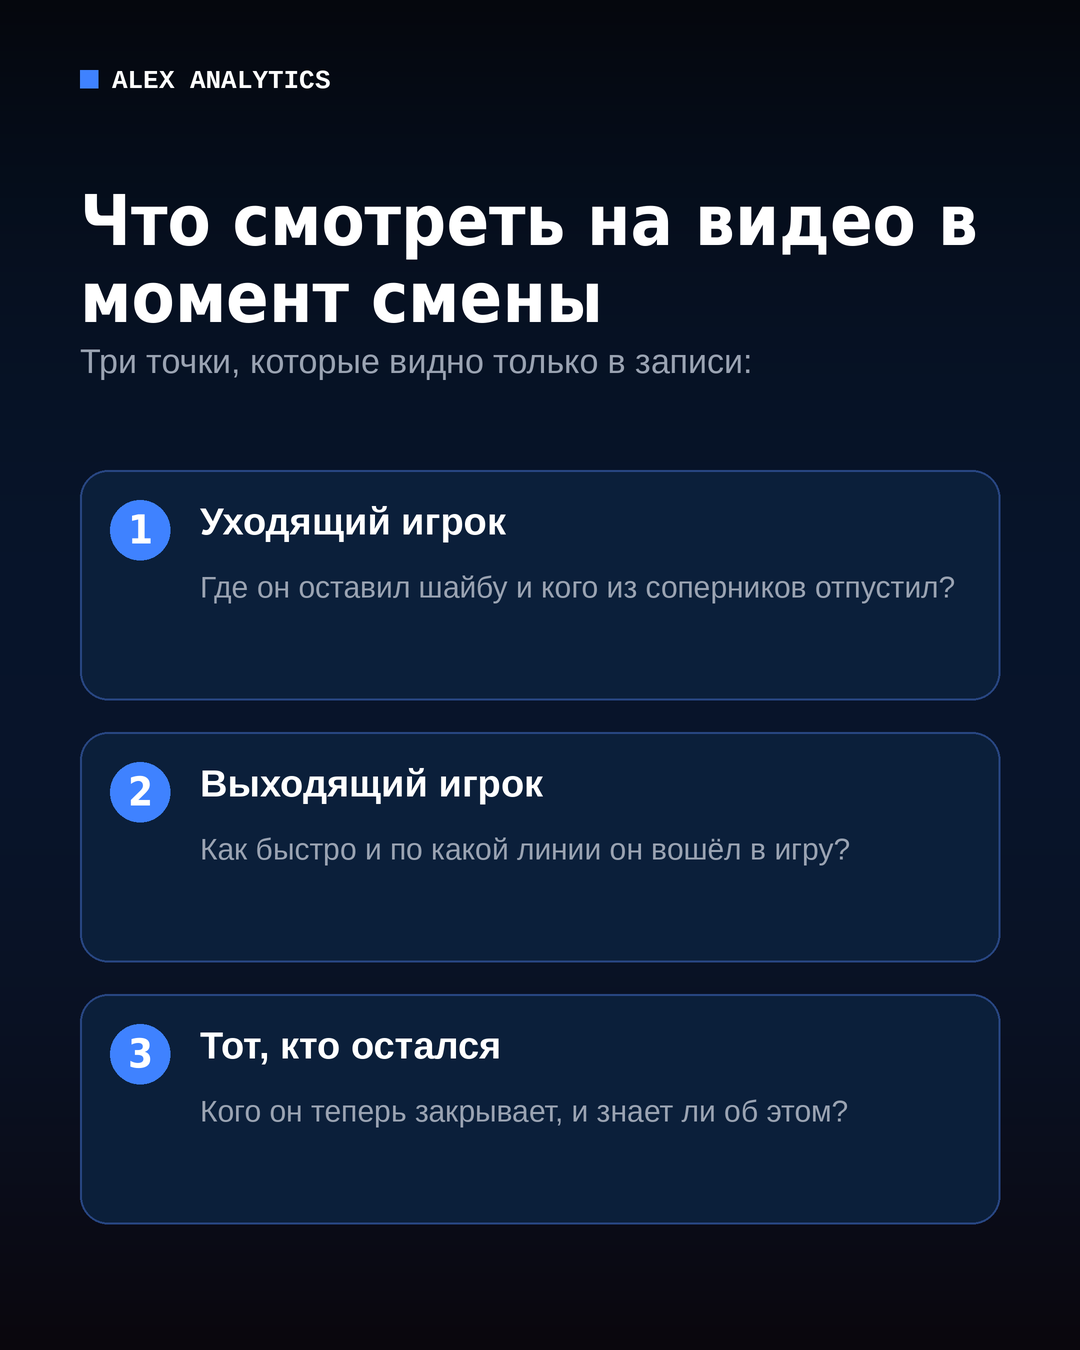
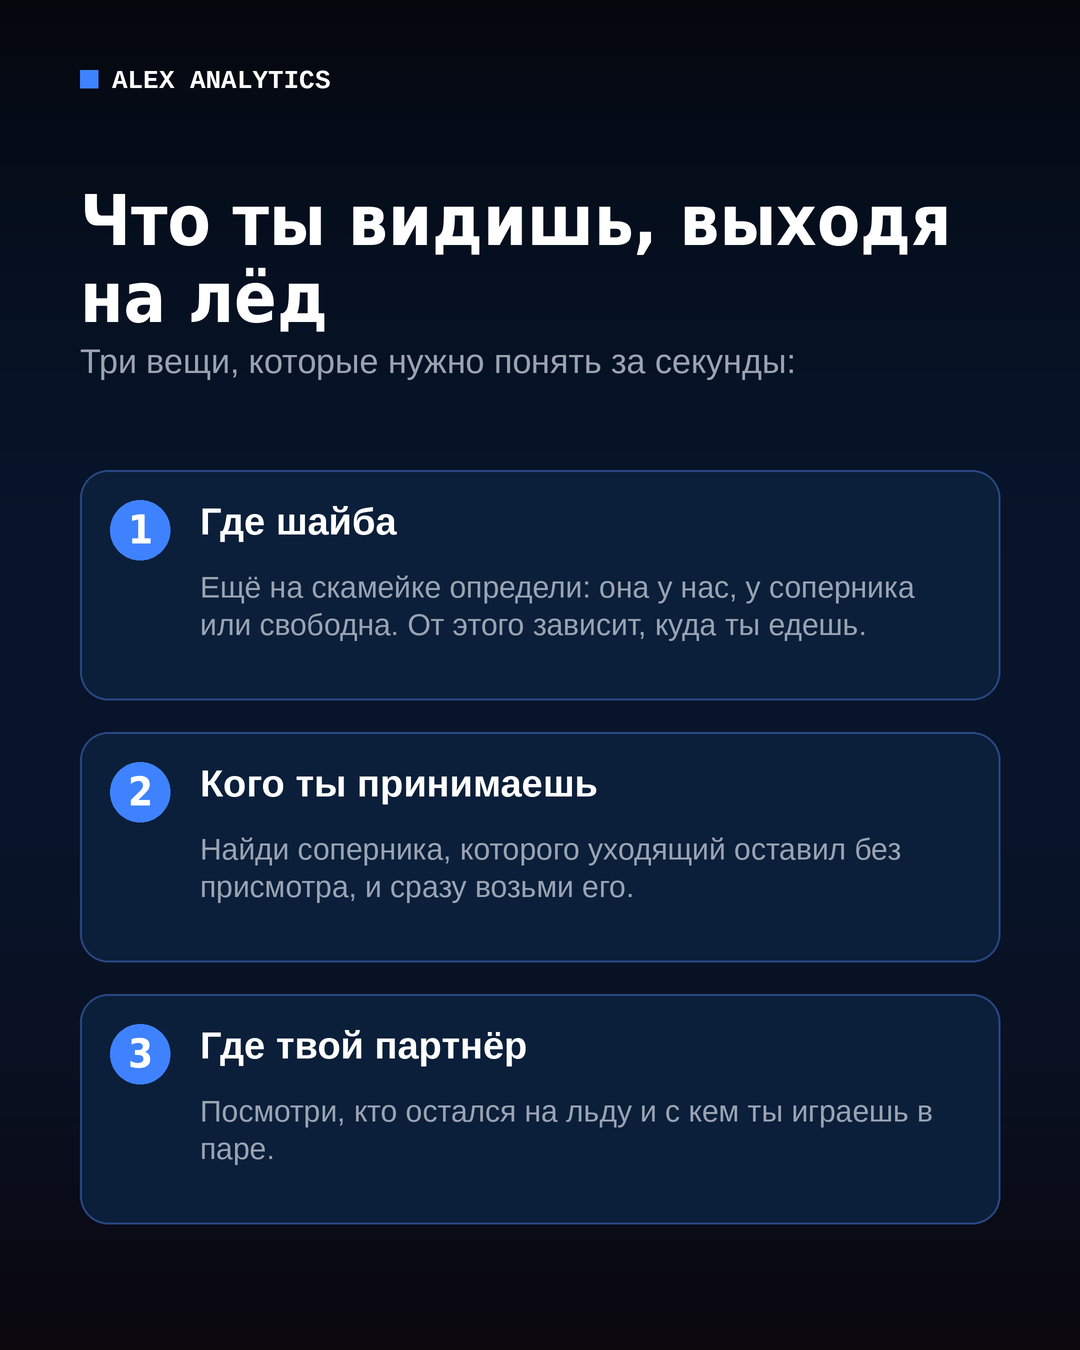
Smena post: player-perspective text

diff --git a/scripts/make_post_v2.py b/scripts/make_post_v2.py
@@ -219,14 +219,14 @@ spray(img, (60, 650), 175, 24, 200, 20, 150, seed=19, glow=False)
 darken(img, 700, 930, 238)
 d = ImageDraw.Draw(img, "RGBA")
 brand(d)
-f1, s1 = fit(["ГОЛ СРАЗУ ПОСЛЕ СМЕНЫ.", "СЛУЧАЙНОСТЬ?"], FH, 920, 150)
+f1, s1 = fit(["ВЫШЕЛ НА СМЕНЕ.", "ЧТО ВИДИШЬ ПЕРВЫМ?"], FH, 920, 150)
 y = 800
-text(d, (80, y), "ГОЛ СРАЗУ ПОСЛЕ СМЕНЫ.", f1, WHITE)
-text(d, (80, y + int(s1 * 1.02)), "СЛУЧАЙНОСТЬ?", f1, BLUE2)
-para(d, 80, y + int(s1 * 2.2), "Смена на ходу: что на видео показывает, кто не успел закрыть своего.",
+text(d, (80, y), "ВЫШЕЛ НА СМЕНЕ.", f1, WHITE)
+text(d, (80, y + int(s1 * 1.02)), "ЧТО ВИДИШЬ ПЕРВЫМ?", f1, BLUE2)
+para(d, 80, y + int(s1 * 2.2), "Первые секунды на льду решают, закрыт ли твой игрок.",
      font(FB, 31), GREY, 900, 42)
 d.line([P((80, 1252)), P((200, 1252))], fill=BLUE, width=sc(6))
-text(d, (80, 1268), "Листай — на что смотреть в смене", font(FBB, 28), WHITE)
+text(d, (80, 1268), "Листай — что делать на смене", font(FBB, 28), WHITE)
 text(d, (1000, 1262), "→", font(FH, 44), BLUE2, "ra")
 save(img, "01_cover.png")
 
@@ -248,11 +248,11 @@ puck(img, (540, 470), r=120)
 darken(img, 640, 900, 240)
 d = ImageDraw.Draw(img, "RGBA")
 brand(d)
-f1, s1 = fit(["ХОЧЕШЬ УВИДЕТЬ", "СВОИ СМЕНЫ?"], FH, 920, 110)
+f1, s1 = fit(["ХОЧЕШЬ РАЗОБРАТЬ", "СВОИ СМЕНЫ?"], FH, 920, 110)
 y = 700
-text(d, (80, y), "ХОЧЕШЬ УВИДЕТЬ", f1, WHITE)
+text(d, (80, y), "ХОЧЕШЬ РАЗОБРАТЬ", f1, WHITE)
 text(d, (80, y + int(s1 * 1.02)), "СВОИ СМЕНЫ?", f1, BLUE2)
-para(d, 80, y + int(s1 * 2.2), "Покажем на видео, где образуются дыры в вашей игре.", font(FB, 31), GREY, 900, 42)
+para(d, 80, y + int(s1 * 2.2), "Покажем, где в твоей игре на смене образуются дыры.", font(FB, 31), GREY, 900, 42)
 bx = 80; by = 1060
 fb = font(FBB, 36); tw = d.textlength("Напиши «АНАЛИТИКА» в директ", font=fb) / S
 d.rounded_rectangle([P((bx, by)), P((bx + tw + 80, by + 84))], radius=sc(42), fill=BLUE)
